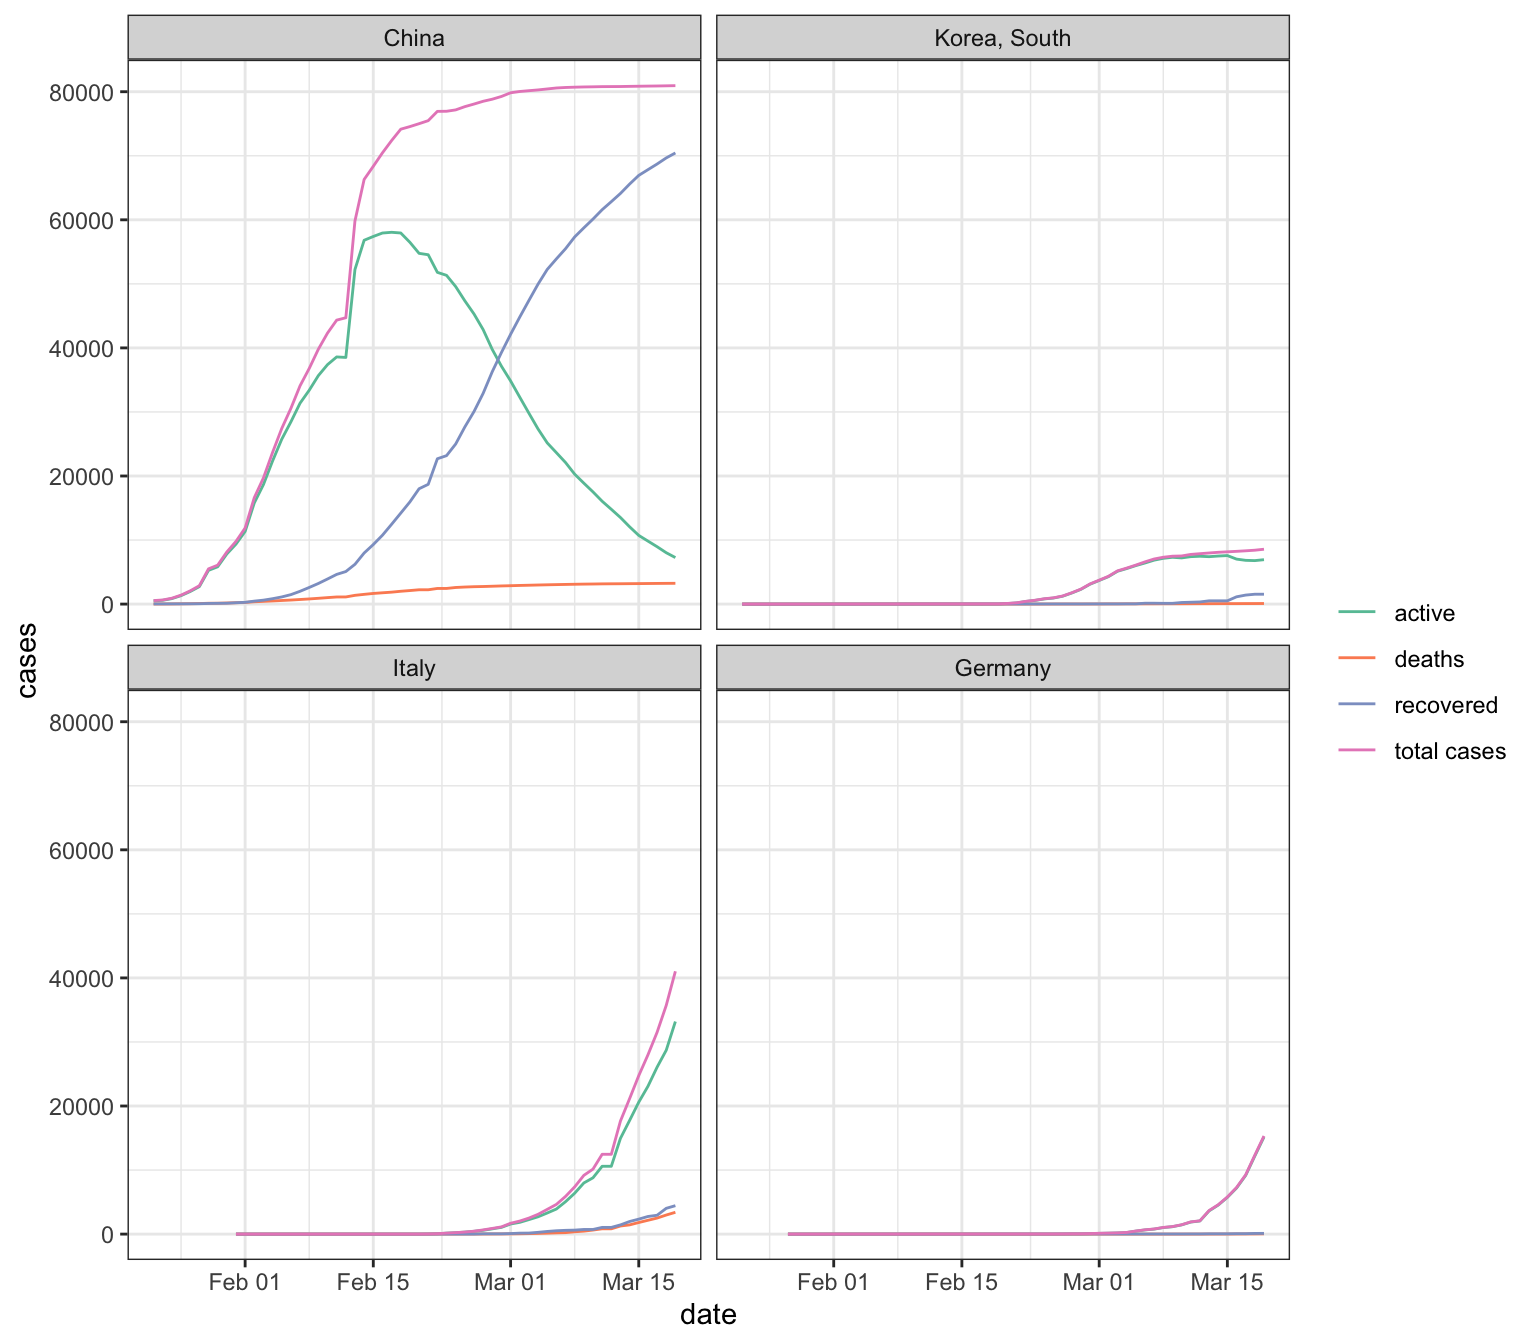
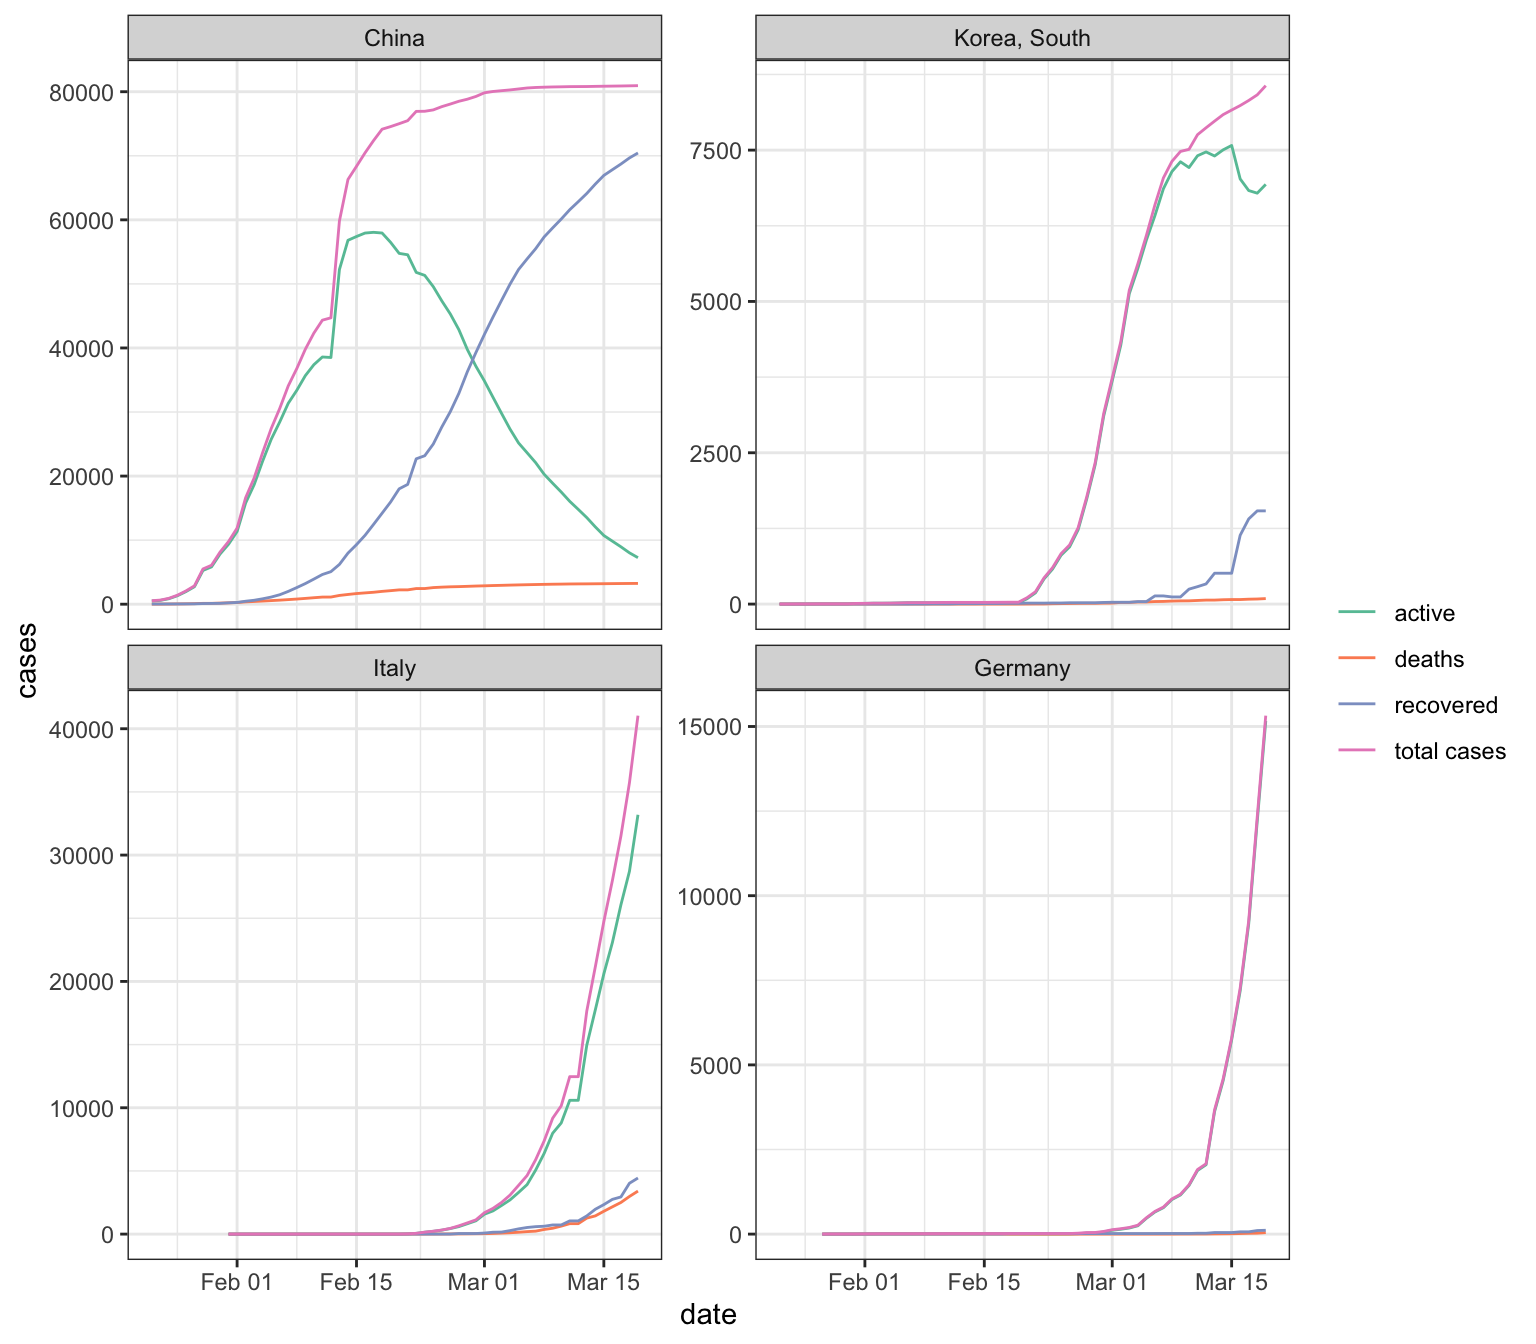
Update 20/03/2020

diff --git a/README.md b/README.md
@@ -59,7 +59,7 @@ emerge by comparing all four curves.
 ### Will these figures be updated?
 
 Yes, I will update these figures every morning. The last update was made
-on 2020-03-20 08:03:36. The data of the John Hopkins University,
+on 2020-03-20 08:06:20. The data of the John Hopkins University,
 however, is always updated at 23:59. What you see is hence the situation
 on 2020-03-19 at 23:59.
 
@@ -179,7 +179,7 @@ data %>%
   ggplot(aes(x = date, y = value, color = key)) +
   geom_line() +
   scale_color_brewer(palette = "Set2") +
-  facet_wrap(~country) +
+  facet_wrap(~country, scale = "free_y") +
   theme_bw() +
   labs(x = "date", y = "cases", color = "")
 ```
